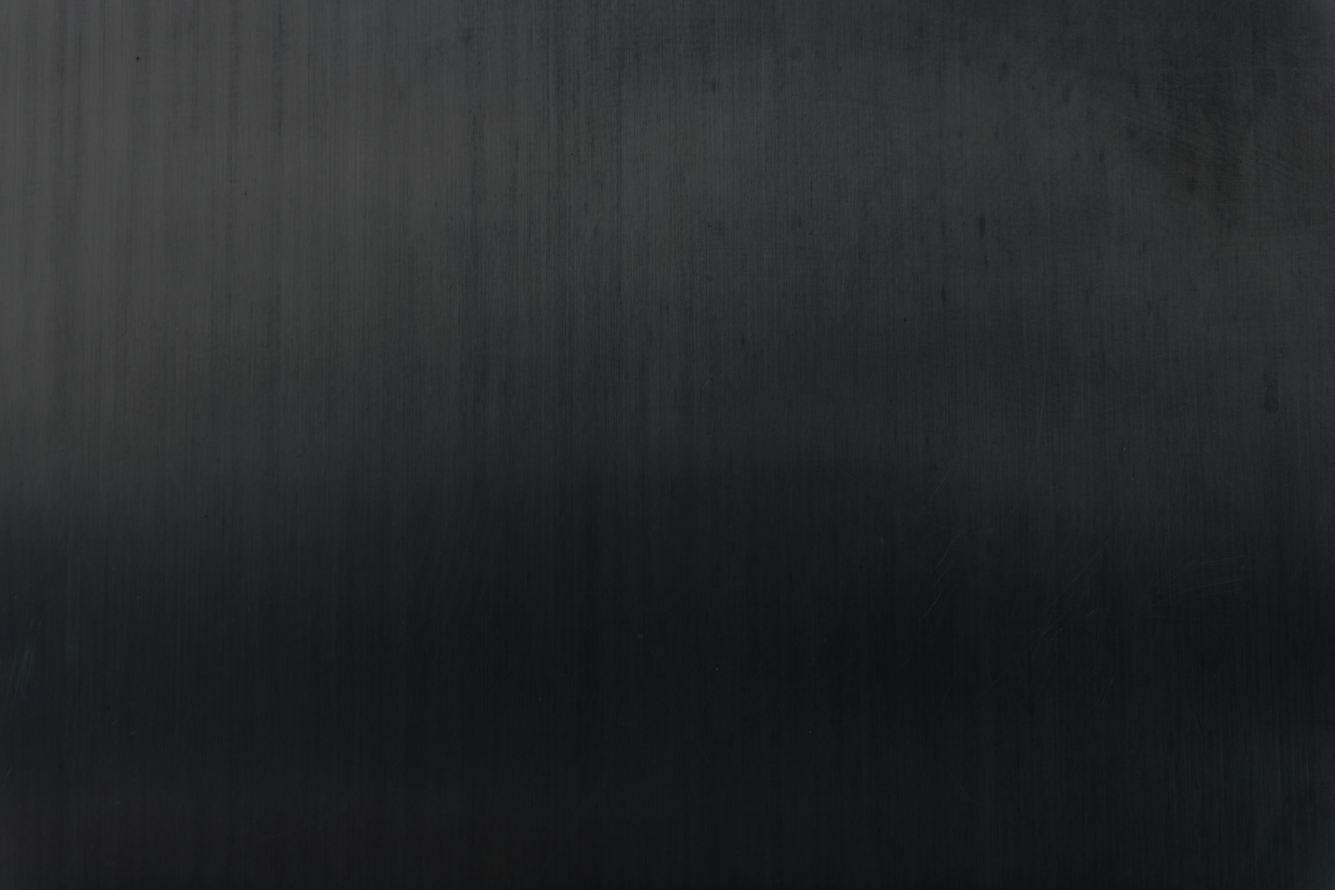
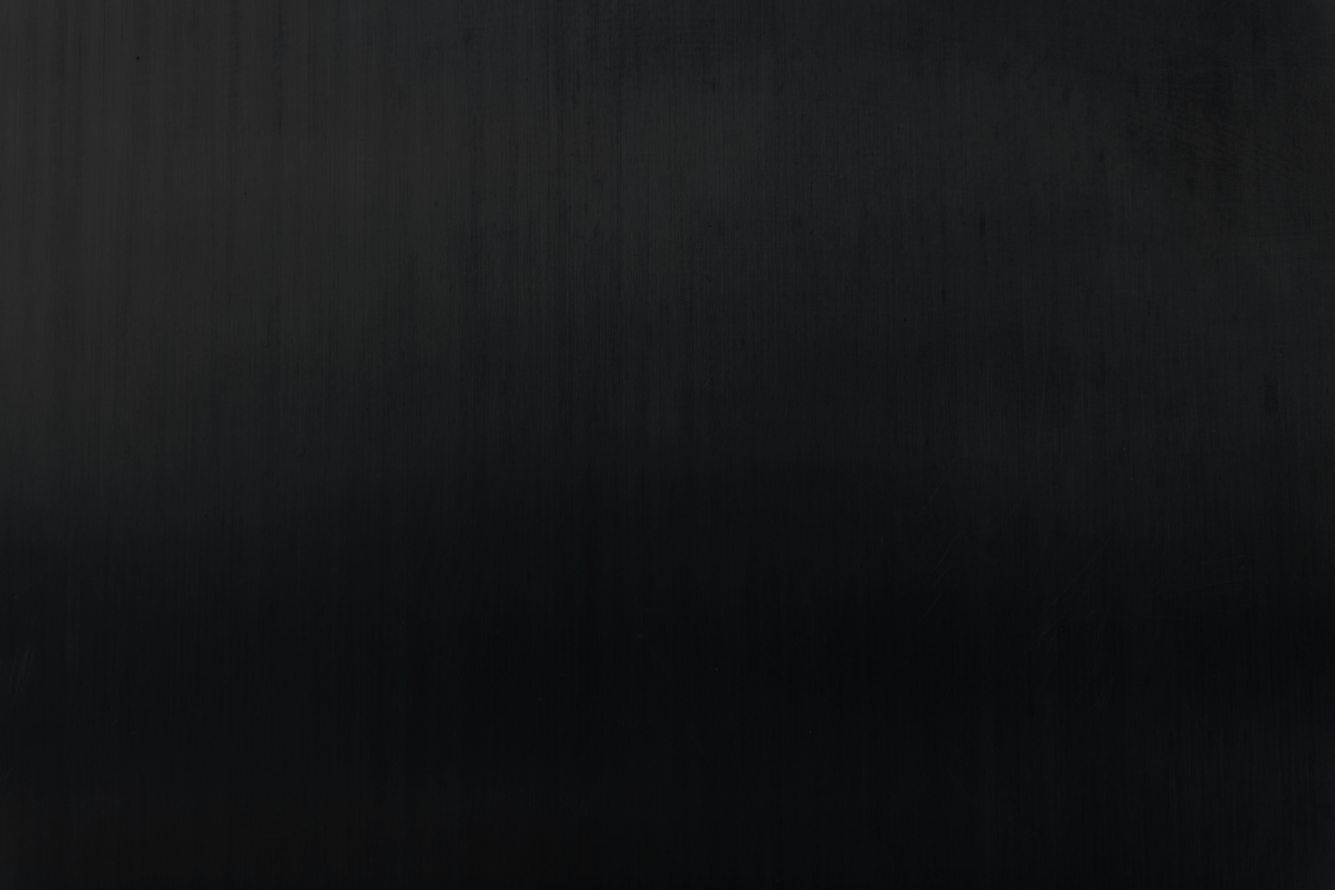
Added content text and button settings and made bg darker

Changed region(s): [[0.0, 0.0, 0.624, 0.4991], [0.9984, 0.0, 1.0, 0.0312]]

diff --git a/index.html b/index.html
@@ -75,7 +75,21 @@
         <div class="row content-item">
             <img src="images/Logo/Logo.png" alt="Logo" class="five columns">
             <div class="seven columns">
-                <h4 class="row">Game development</h4>
+                <h4 class="row color-text">Game Development</h4>
+                <p class="row">
+                    Since 2014 I have used this label to publish my games.<br>
+                    Hopefully you're here because you like them!<br>
+                    Check them out <a href="#">here!</a>
+                </p>
+            </div>
+        </div>
+        <div class="row content-item">
+            <div class="u-full-width">
+                <h5 class="row no-margin color-text">A selection of</h5>
+                <div class="row">
+                    <h3 class="nine columns">Recent Projects</h3>
+                    <button class="three columns">View All</button>
+                </div>
                 <p class="row">
                     Since 2014 I have used this label to publish my games.<br>
                     Hopefully you're here because you like them!<br>

diff --git a/css/general.css b/css/general.css
@@ -22,6 +22,7 @@ body {
     background: var(--bg-color) url("../images/website-bg.jpg") no-repeat;
     font-family: sans-serif;
     font-size: 1.7em;
+    font-weight: 500;
     color: var(--text-color);
 }
 
@@ -35,8 +36,23 @@ a:hover {
     transition: color var(--transition-short);
 }
 
+button {
+    color: var(--text-color);
+    transition: background-color var(--transition-short);
+}
+
+button:hover {
+    color: var(--text-color);
+    background-color: var(--button-hover-color);
+    transition: background-color var(--transition-short);
+}
+
+button:focus {
+    color: var(--text-color);
+    transition: background-color var(--transition-short);
+}
+
 footer {
-    position:fixed;
     width: 100%;
     bottom: 0;
     text-align: center;

diff --git a/css/variables.css b/css/variables.css
@@ -8,6 +8,7 @@
     --text-color: #ffffff;
     --a-color: #ff4f00;
     --a-hover-color: #993800;
+    --button-hover-color: rgba(255, 79, 0, 0.3);
 
     --transition-short: 300ms;
 
@@ -20,9 +21,9 @@
 
     /* Menu colors */
     --menu-bg-color: #262626;
-    --menu-primary-text-color: #9b9b9b;
+    --menu-primary-text-color: #ffffff;
     --menu-item-border-color: var(--menu-primary-text-color);
-    --menu-item-selected-color: #ff4f00;
+    --menu-item-selected-color: var(--a-color);
     --menu-mobile-bg-color: #121212;
 
     /* Content colors */

diff --git a/css/content.css b/css/content.css
@@ -6,10 +6,19 @@
 
 .content-item {
     padding: 20px 20px 20px 10px;
-    border-radius: 20px;
-    border: 2px solid var(--content-item-border-color);
-    background-color: var(--content-item-bg-color);
     margin-bottom: 40px;
+}
+
+.content-item h1, .content-item h2, .content-item h3, .content-item h4, .content-item h5, .content-item h6 {
+    font-weight: 700;
+}
+
+.color-text {
+    color: var(--menu-item-selected-color);
+}
+
+.no-margin {
+    margin: 0;
 }
 
 /* Small screen specific */
